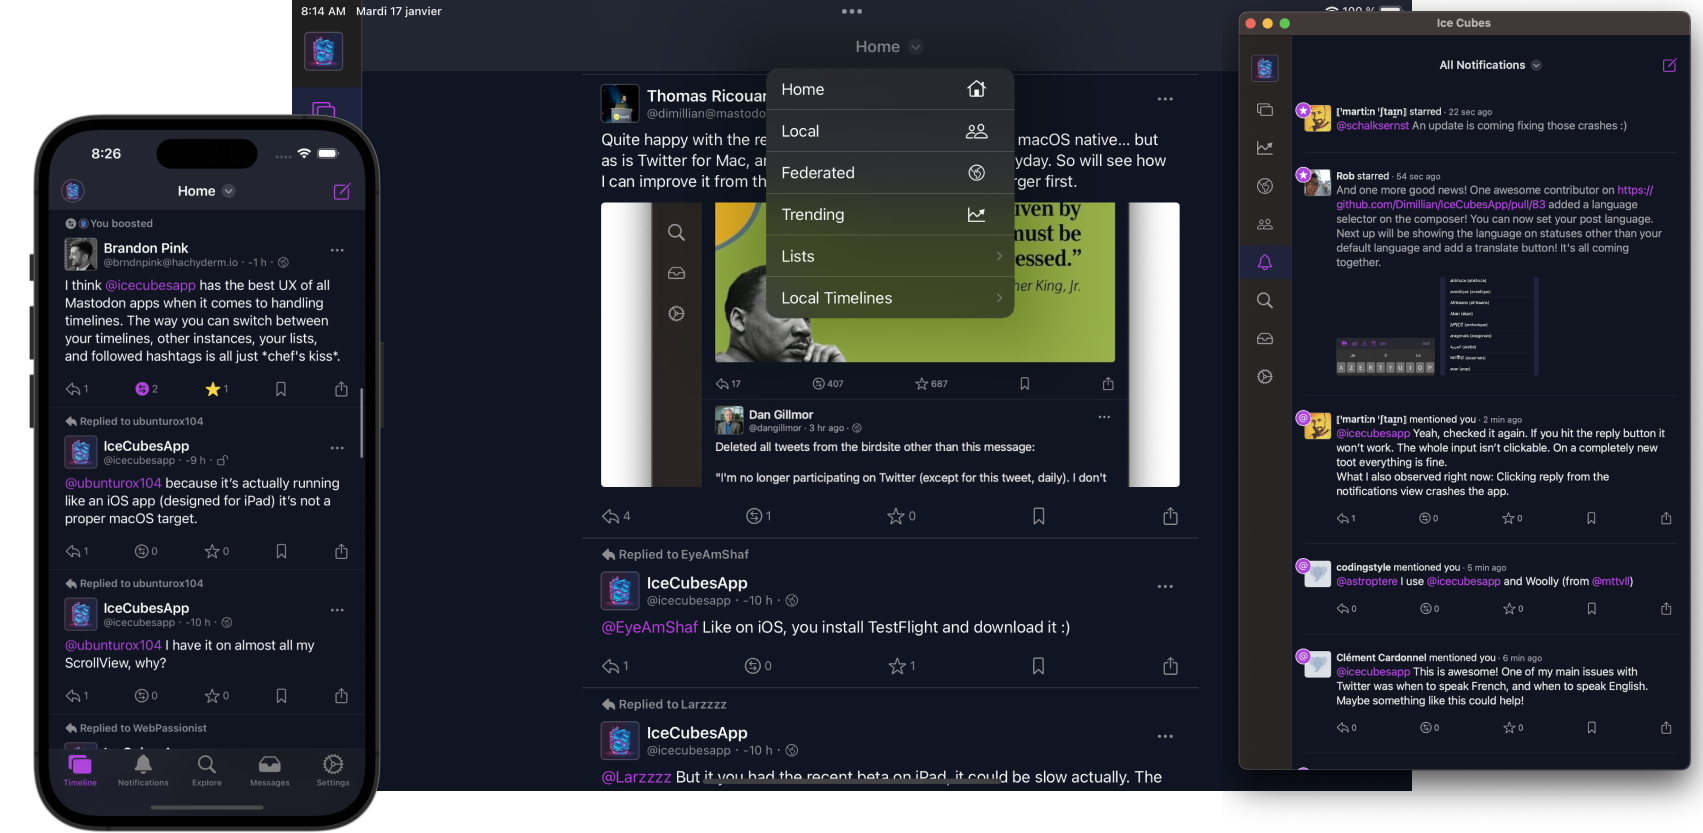
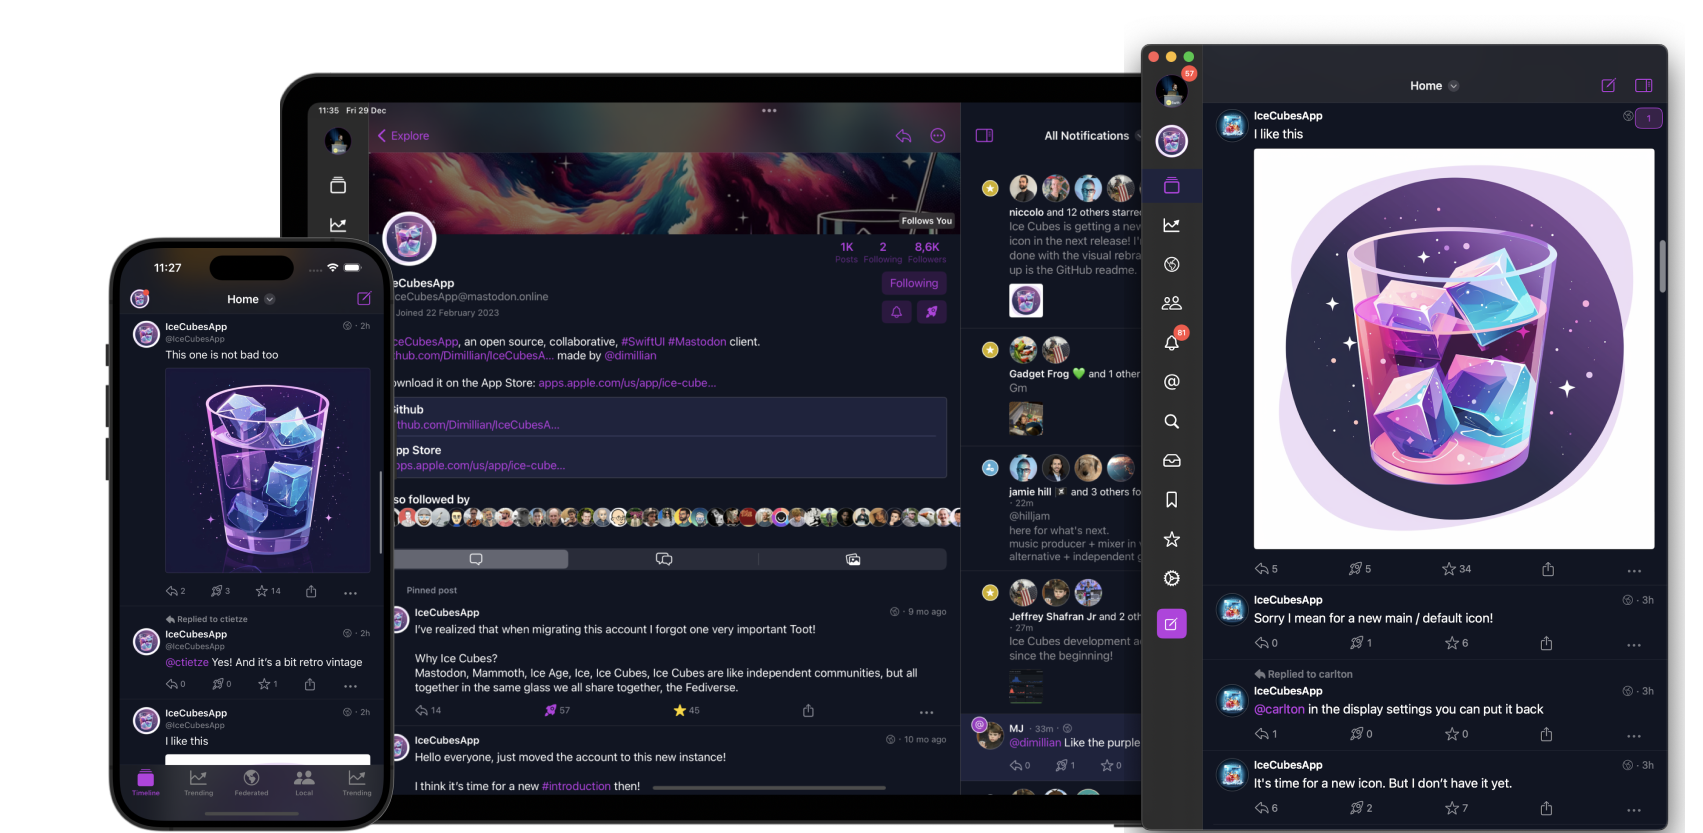
WIP New readme

diff --git a/README.md b/README.md
@@ -9,6 +9,32 @@ IceCubesApp is an open-source application for accessing the decentralized social
 
 You can connect to any Mastodon instance, browse your timeline, interact with other users, and post updates and media.
 
+## Features
+
+### Timeline
+
+<img src="Images/timeline1.png" />
+<img src="Images/timeline2.png" />
+<img src="Images/timeline3.png" />
+
+* A navigation bar title menu lets you easily swap between your home, local, federated, and trending timeline.
+* You can also easily access your lists, followed tags, and tag groups.
+* Tag groups are custom timelines made of multiple tags, a feature unique to Ice Cubes.
+* You can also add a remote local timeline. A helpful feature to browse the public timeline of other instances.
+* Ice Cubes rely heavily on the streaming events of Mastodon to do stuff like showing new posts live in the home timeline and editing and deleting your posts.
+* The timeline sync is semi-automatic; your position is sent to the Mastodon marker API, and from another device running Ice Cubes, you can resume your home timeline position.
+* The home timeline is cached using the third-party library [Bodega](https://github.com/mergesort/Bodega). A lite SQLite wrappers. The current position is saved in user default, so when you switch accounts or launch the app, your cached home timeline and position are restored. Then new posts will be fetched and displayed with an unread counter.
+
+`Code` -> Status & Timeline package
+
+### Notifications
+
+### Explore / Search
+
+### Direct Messages
+
+### Multi Accounts
+
 The project is split into different Swift Packages to make managing and maintaining the codebase easier. Each package focuses on a specific application aspect, such as the UI, network communication, or data models. This modular approach allows for easier collaboration and ensures the code is organized and easily understood.
 
 It's a great starting point for learning SwiftUI. The app covers many of the basic concepts of SwiftUI, such as building layouts, working with data, and handling user interaction. By exploring the code, you can understand how to use SwiftUI in your daily life. Plus, the open-source nature of IceCubesApp means you can see how real-world applications are built and get a sense of best practices for using SwiftUI.
@@ -17,7 +43,7 @@ The architecture is straightforward MVVM for most parts, there is no redux on th
 
 Thanks!
 
-![Icon](IceCubesApp/Assets.xcassets/AppIcon.appiconset/144.png?)
+<img src="Images/AppIcon.png" />
 
 ## Building the project
 
